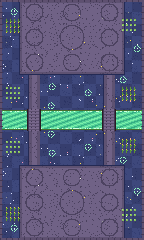
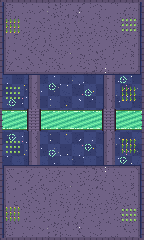
Pontos de módulo dos lados quase na cerca e pátio sem marcação redonda
- Colunas dos lados dos módulos de ±150 pra ±225 (as pontes continuam em ±150).
- Pátio de terra de um lado a outro, sem os círculos de cada lugar (as 13 arenas).

Claude-Session: https://claude.ai/code/session_01F2c9wwKpd4XWAaAeM55Dzi

diff --git a/ci/tools/arte/arena.py b/ci/tools/arte/arena.py
@@ -10,6 +10,7 @@ CX, CY = PW // 2, PH // 2
 RIVER_HALF = 9          # rio: linhas CY-9 .. CY+8  (mundo ±36)
 BRIDGE_X = 37.5         # pontes em CX±37.5 (mundo ±150)
 BRIDGE_HALF = 7         # largura 14px (mundo 56)
+MOD_X = 56.25           # colunas dos módulos dos lados (mundo ±225)
 CENTER_BRIDGE_HALF = 4  # ponte do meio, mais estreita: 8px (mundo 32)
 TOWER_DX = 33.75        # torres em CX±33.75 (mundo ±135)
 TOWER_DY = 95           # torres em CY±95 (mundo ±380)
@@ -46,8 +47,9 @@ def build(seed=7):
             px[x, my] = c
 
     # ---- LAYOUT "TECLADO NUMÉRICO": a base é o 5 e os módulos ficam nos outros 8 números.
-    # 3 colunas (as mesmas das 3 pontes) x 3 fileiras, tudo simétrico.
-    COLS = (CX - BRIDGE_X, CX, CX + BRIDGE_X)
+    # 3 colunas x 3 fileiras, tudo simétrico. As colunas dos lados vão quase até a cerca
+    # (mundo ±225); as pontes continuam em ±150 e o caminho desce reto delas até o pátio.
+    COLS = (CX - MOD_X, CX, CX + MOD_X)
     ROWS = (CY + 57.5, CY + 82.5, CY + 107.5)          # mundo: 230, 330, 430 a partir do rio
 
     def dirt(x, y, edge=False):
@@ -56,8 +58,8 @@ def build(seed=7):
             c = DIRT[2]
         mirror_set(x, y, c)
 
-    # dois caminhos RETOS: cada ponte desce direto pra sua coluna do pátio
-    for col_x, half in ((COLS[0], 5), (COLS[2], 5)):
+    # dois caminhos RETOS: cada ponte desce direto até o pátio
+    for col_x, half in ((CX - BRIDGE_X, 5), (CX + BRIDGE_X, 5)):
         for y in range(CY + RIVER_HALF, int(ROWS[0])):
             for x in range(int(col_x - half - 1), int(col_x + half + 1)):
                 d = abs(x + 0.5 - col_x)
@@ -67,7 +69,7 @@ def build(seed=7):
                     mirror_set(x, y, G3)
 
     # o pátio: um quadrado de terra batida em volta da base, com borda
-    yx0, yx1 = int(COLS[0] - 14), int(COLS[2] + 14)
+    yx0, yx1 = max(int(COLS[0] - 11), 4), min(int(COLS[2] + 11), PW - 5)
     yy0, yy1 = int(ROWS[0] - 11), min(int(ROWS[2] + 11), PH - 2)
     for y in range(yy0 - 1, yy1 + 2):
         for x in range(yx0 - 1, yx1 + 2):
@@ -75,16 +77,7 @@ def build(seed=7):
                 mirror_set(x, y, G3)
             else:
                 dirt(x, y, x - yx0 < 2 or yx1 - x < 2 or y - yy0 < 2 or yy1 - y < 2)
-    # os 9 lugares: o do meio (a base) maior, os 8 em volta marcados no chão
-    for ri, ry in enumerate(ROWS):
-        for ci, cx_ in enumerate(COLS):
-            main = ri == 1 and ci == 1
-            r = 12.5 if main else 9.0
-            for y in range(int(ry - r - 1), int(ry + r + 2)):
-                for x in range(int(cx_ - r - 1), int(cx_ + r + 2)):
-                    d = math.hypot(x + 0.5 - cx_, y + 0.5 - ry)
-                    if r - 1.2 <= d <= r and y <= PH - 2:
-                        mirror_set(x, y, DIRT[2])
+    # (sem marcação redonda dos lugares: o pátio é liso)
 
     # rio no meio (com espuma nas margens e brilho)
     for y in range(CY - RIVER_HALF - 1, CY + RIVER_HALF + 1):
